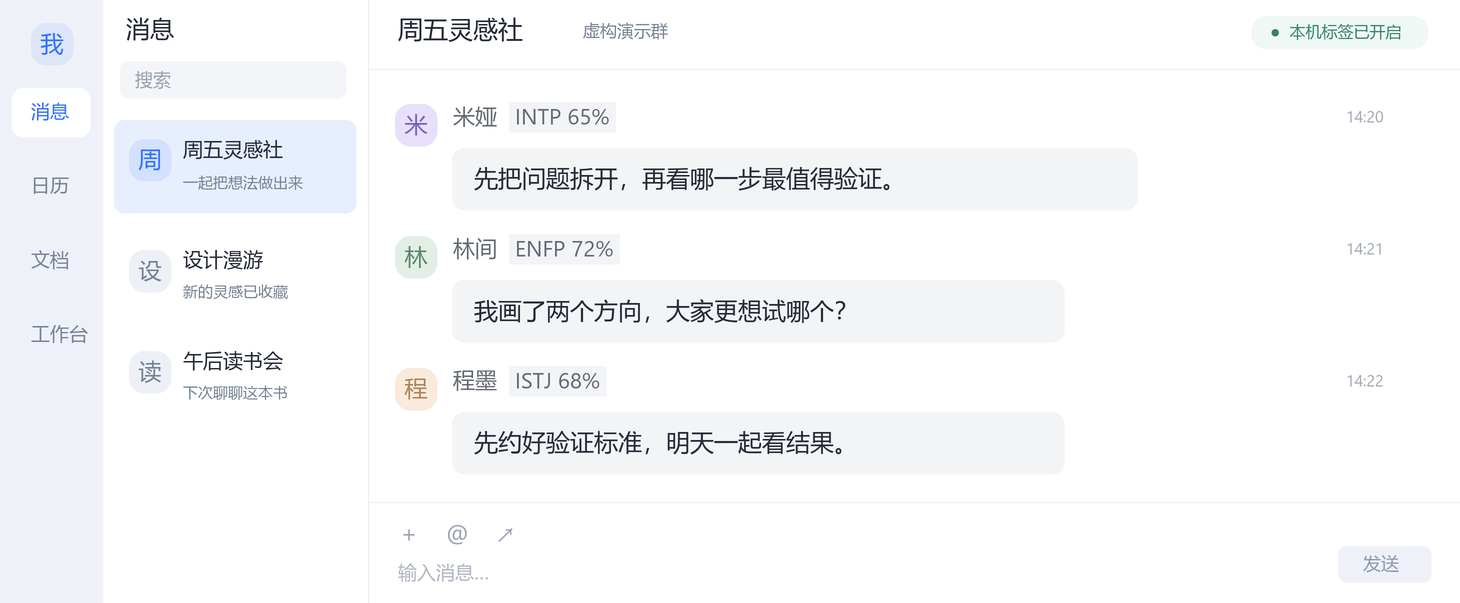
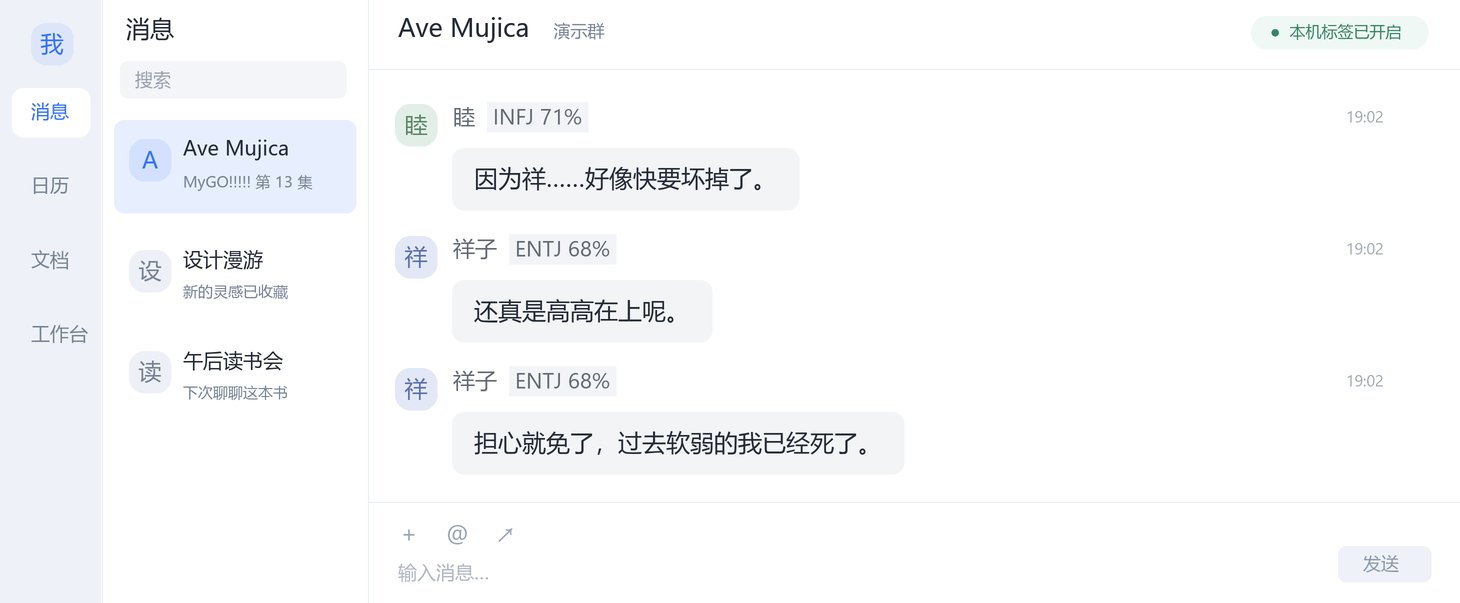
Show MBTI and girl-band demos side by side; trim the README
The demo now replays a MyGO!!!!! episode 13 exchange between Mutsumi and
Sakiko, rendered twice: plain MBTI labels and the built-in girl-band theme,
with the same probabilities. render_demo.py writes both images and draws
character names with the CJK font.

The README drops internals that do not change how the tool is used
(scroll-prediction constants, polling intervals, badge window reuse),
merges repeated notes on keys and .gitignore, and points the clone URL at
iikawa-games.

diff --git a/tools/render_demo.py b/tools/render_demo.py
@@ -1,4 +1,4 @@
-"""Render a shareable UI illustration using fictional data only. No screen capture."""
+"""Render the README illustrations from an anime dialogue: plain MBTI and a character theme. No screen capture."""
 from pathlib import Path
 from functools import lru_cache
 import argparse
@@ -9,14 +9,17 @@ from PIL import Image, ImageDraw, ImageFont
 ROOT = Path(__file__).resolve().parents[1]
 sys.path.insert(0, str(ROOT))
 from feishu_mbti.presentation import format_profile
+from feishu_mbti.themes import load_themes
 
 SCALE = 2
 WIDTH, HEIGHT = 1460, 603
 ORIGIN_X, ORIGIN_Y = 70, 255
 INK, MUTED, BLUE = '#252b37', '#768295', '#3370ff'
+# The same chat twice: plain MBTI, then the built-in 少女乐队 theme.
+VARIANTS = (('demo.png', None, '本机标签已开启'), ('demo-girl-bands.png', 'girl_bands', '少女乐队主题'))
 
 
-def render(output, font_path=None):
+def render(output, font_path=None, theme=None, status='本机标签已开启'):
     candidates = [Path(font_path)] if font_path else [
         Path(os.environ.get('WINDIR', 'C:/Windows')) / 'Fonts/msyh.ttc',
         Path('/usr/share/fonts/opentype/noto/NotoSansCJK-Regular.ttc'),
@@ -68,34 +71,38 @@ def render(output, font_path=None):
     rect((190, 316, 416, 353), '#f3f5f8', 8)
     text(205, 335, '搜索', 18, '#98a1b0')
     rect((184, 375, 426, 468), '#e7efff', 10)
-    avatar(199, 394, '周', '#d3e1ff')
-    text(253, 405, '周五灵感社', 20)
-    text(253, 438, '一起把想法做出来', 15, MUTED)
+    avatar(199, 394, 'A', '#d3e1ff')
+    text(253, 405, 'Ave Mujica', 20)
+    text(253, 438, 'MyGO!!!!! 第 13 集', 15, MUTED)
     for y, initial, title, summary in [(505, '设', '设计漫游', '新的灵感已收藏'), (606, '读', '午后读书会', '下次聊聊这本书')]:
         avatar(199, y, initial, '#edf1f7', MUTED)
         text(253, y+10, title, 20)
         text(253, y+42, summary, 15, MUTED)
     line(438, 255, 438, 858)
-    text(468, 285, '周五灵感社', 25)
-    text(653, 286, '虚构演示群', 17, MUTED)
+    title_width = text(468, 285, 'Ave Mujica', 25)
+    text(468 + title_width + 24, 286, '演示群', 17, MUTED)
     rect((1321, 271, 1498, 304), '#eff8f4', 16)
-    text(1340, 287, '●  本机标签已开启', 16, '#358365')
+    text(1340, 287, f'●  {status}', 16, '#358365')
     line(438, 324, 1530, 324)
 
     samples = [
-        ('米娅', '米', '#e6e0fb', '#7963b2', 'INTP', .65, 367, '先把问题拆开，再看哪一步最值得验证。', 685, '14:20'),
-        ('林间', '林', '#e2efe6', '#5c8569', 'ENFP', .72, 499, '我画了两个方向，大家更想试哪个？', 612, '14:21'),
-        ('程墨', '程', '#f9eadb', '#af8459', 'ISTJ', .68, 631, '先约好验证标准，明天一起看结果。', 612, '14:22'),
+        # BanG Dream! It's MyGO!!!!! episode 13: Mutsumi says why she is joining Ave Mujica.
+        ('睦', '睦', '#e2efe6', '#5c8569', 'INFJ', .71, 367, '因为祥……好像快要坏掉了。', '19:02'),
+        ('祥子', '祥', '#e3e8f7', '#5b6fa8', 'ENTJ', .68, 499, '还真是高高在上呢。', '19:02'),
+        ('祥子', '祥', '#e3e8f7', '#5b6fa8', 'ENTJ', .68, 631, '担心就免了，过去软弱的我已经死了。', '19:02'),
     ]
-    for name, initial, background, foreground, label, probability, y, message, width, timestamp in samples:
+    for name, initial, background, foreground, label, probability, y, message, timestamp in samples:
         avatar(465, y-8, initial, background, foreground)
         name_width = text(523, y+5, name, 22, '#646a73')
-        value = format_profile({'label': label, 'probability': probability, 'status': 'uncertain', 'result_version': 2})
-        badge_width = draw.textlength(value, font=font(22, True)) / SCALE + 12
+        value = format_profile({'label': label, 'probability': probability, 'status': 'uncertain', 'result_version': 2},
+                               theme=theme)
+        latin = value.isascii()  # Segoe UI has no CJK glyphs for character names.
+        badge_width = draw.textlength(value, font=font(22, latin)) / SCALE + 12
         left = 523 + name_width + 12
         rect((left, y-10, left+badge_width, y+20), '#f2f4f7', 0)
-        text(left+6, y+5, value, 22, '#646a73', True)
+        text(left+6, y+5, value, 22, '#646a73', latin)
         text(1416, y+5, timestamp, 16, '#a1a9b5', True)
+        width = draw.textlength(message, font=font(24)) / SCALE + 44
         rect((522, y+36, 522+width, y+98), '#f2f4f6', 12)
         text(544, y+67, message, 24)
     line(438, 757, 1530, 757)
@@ -106,12 +113,14 @@ def render(output, font_path=None):
 
     output.parent.mkdir(parents=True, exist_ok=True)
     image.resize((WIDTH, HEIGHT), Image.Resampling.LANCZOS).save(output)
-    print(f'Rendered {output.name}: {WIDTH} x {HEIGHT}, fictional data only.')
+    print(f'Rendered {output.name}: {WIDTH} x {HEIGHT}, no personal data.')
 
 
 if __name__ == '__main__':
     parser = argparse.ArgumentParser(description=__doc__)
     parser.add_argument('--font', help='Path to a Chinese-capable .ttf or .ttc font')
-    parser.add_argument('--output', type=Path, default=ROOT / 'docs/demo.png')
+    parser.add_argument('--output-dir', type=Path, default=ROOT / 'docs')
     args = parser.parse_args()
-    render(args.output, args.font)
+    themes = load_themes()
+    for filename, theme_id, status in VARIANTS:
+        render(args.output_dir / filename, args.font, themes.get(theme_id), status)

diff --git a/README.md b/README.md
@@ -1,50 +1,49 @@
 # lark-mbti-jev
 
-一个用于 Windows 飞书 / Lark 群聊的小工具。它让 Jev 根据聊天记录推测成员的 MBTI，并在发言者姓名旁显示结果，例如 **INTP 65%**。标签只在你的电脑上显示。
+一个用于 Windows 飞书 / Lark 群聊的小工具。它让 Jev 根据聊天记录推测成员的 MBTI，并在发言者姓名旁显示结果，例如 **ENTJ 68%**，也可以换成动漫角色，例如 **丰川祥子 68%**。标签只在你的电脑上显示。
 
-![姓名旁显示 MBTI 和概率的效果示意](docs/demo.png)
+<table>
+  <tr>
+    <td><img src="docs/demo.png" alt="姓名旁显示 MBTI 和概率"></td>
+    <td><img src="docs/demo-girl-bands.png" alt="姓名旁显示少女乐队角色和概率"></td>
+  </tr>
+  <tr>
+    <td align="center">默认：MBTI 类型</td>
+    <td align="center">少女乐队主题：同一类型对应的角色</td>
+  </tr>
+</table>
 
-> 图中的人物、群名、消息和概率均为虚构。本工具独立于飞书运行，由第三方开发。
+> 图中消息是《BanG Dream! It's MyGO!!!!!》第 13 集睦和祥子的原对话（中文译文），概率为演示数值。本工具由第三方开发，独立于飞书运行。
 
 ## 安装和启动
 
 使用前需要准备：
 
 - Windows 10 / 11 和 Python 3.11+。
-- Windows 中文文字识别（OCR）语言组件，仅截图兼容模式需要。
 - 已配置并登录的 [lark-cli](https://github.com/larksuite/cli)，以及读取所选群聊的权限。
 - 可用的 Jev 服务，或用于直连 [TypeSafe](https://docs.typesafe.ai/) 的 API 密钥。
-
-在 PowerShell 中下载并安装：
+- Windows 中文 OCR 语言组件（仅截图兼容模式需要）。
 
 ```powershell
-git clone https://github.com/iikawa0918/lark-mbti-jev.git
+git clone https://github.com/iikawa-games/lark-mbti-jev.git
 cd lark-mbti-jev
 powershell -NoProfile -ExecutionPolicy Bypass -File .\install.ps1
+lark-cli auth status --json   # 确认 lark-cli 已登录
 ```
 
-检查 lark-cli 的登录状态：
-
-```powershell
-lark-cli auth status --json
-```
+程序在 PATH 和 npm 默认安装目录中查找 lark-cli；装在其他位置时，用 `LARK_CLI_EXE` 指定路径。
 
 ### 配置 Jev
 
-如果电脑上已经配置了 Jev 中转服务，程序会使用 `JEV_BASE_URL`、`JEV_CLIENT_CONFIG` 或 `~/.agents/jev-client.json`。配置文件中的 `base_url` 填服务根地址，例如 `http://127.0.0.1:8766`；API 密钥由中转服务管理。
+- **Jev 中转服务**：程序读取 `JEV_BASE_URL`、`JEV_CLIENT_CONFIG` 或 `~/.agents/jev-client.json`。配置文件中的 `base_url` 填服务根地址，例如 `http://127.0.0.1:8766`；API 密钥由中转服务管理。
+- **直连 TypeSafe**：设置 `TYPESAFE_API_KEY`，或用 `TYPESAFE_KEY_FILE` 指向一个本机文件（一行密钥，或一行 `TYPESAFE_API_KEY=...`）。
 
-如果直接使用 TypeSafe，在当前 PowerShell 窗口设置密钥，再启动程序：
+配置保存在用户环境变量或本机文件中时，双击 `启动飞书MBTI.vbs` 即可。只在当前 PowerShell 窗口设置的变量，需要在同一窗口启动：
 
 ```powershell
 $env:TYPESAFE_API_KEY = "替换为你的 TypeSafe API 密钥"
 .\.venv\Scripts\python.exe -m feishu_mbti.app
 ```
-
-也可以把密钥保存在本机文件中，用 `TYPESAFE_KEY_FILE` 指定路径。文件只需一行密钥，或一行 `TYPESAFE_API_KEY=...`。密钥和个人配置留在本机，勿提交到 Git。
-
-配置已保存到用户环境变量或本机配置文件时，可直接双击 `启动飞书MBTI.vbs`。只在当前 PowerShell 窗口设置的变量，需要从同一个窗口运行上面的 Python 启动命令。
-
-程序会在 PATH 和 npm 默认安装目录中查找 lark-cli。安装在其他位置时，用 `LARK_CLI_EXE` 指定可执行文件路径。
 
 ### 选择群聊
 
@@ -52,25 +51,27 @@ $env:TYPESAFE_API_KEY = "替换为你的 TypeSafe API 密钥"
 2. 从搜索结果中选中目标群，点击“使用此群”。
 3. 点击“开启标签”，再点击“在飞书打开”。
 
-第一次使用时需要自己选群。之后双击 `启动飞书MBTI.vbs` 只在系统托盘显示图标，不弹出窗口。单击托盘图标打开控制窗口；关闭窗口后程序继续在托盘运行。右键菜单可以暂停或开启标签、刷新聊天；选“退出”才会停止消息读取、姓名识别和鼠标监听。程序需要手动启动。
+选过群之后，双击 `启动飞书MBTI.vbs` 只在系统托盘显示图标并直接开启标签。单击图标打开控制窗口，关闭窗口后程序继续在托盘运行；右键菜单可以暂停或开启标签、刷新聊天、切换标签显示，选“退出”才会停止。程序不会开机自启。
 
 ## 标签怎么显示
 
-程序优先通过 Windows 无障碍接口直接读取飞书桌面端的姓名和位置，无需截图。控制窗口会显示当前定位方式；客户端未提供可用接口时，自动使用截图识别兼容模式。
+程序优先通过 Windows 无障碍接口读取飞书桌面端的姓名和位置，不截图；客户端没有提供可用接口时，自动改用截图识别。控制窗口会显示当前方式。
 
-- **还没有分析结果的成员**：先显示“分析中”。本机已缓存此人的群聊文字时，先用这些文字分析，约 1 秒出结果；随后补读此人更多历史，多出 10 条以上再更新一次。最多 4 人同时分析，屏幕上的成员优先。开启标签后还会预先分析最近发言的 30 人。有文本但信息较少时，仍显示最可能的类型和概率；没有可用文本时显示“暂无文本”。分析失败时显示“分析失败”，约 1 分钟后再次看到此人时自动重试。
-- **字号和位置**：标签紧贴在姓名后面，与姓名垂直居中，字号略小于姓名。姓名后有签名、状态或链接时，标签盖住签名开头，签名再长也照常显示。
-- **滚动消息**：滚动或拖动滚动条时，标签跟着姓名一起移动。飞书的无障碍接口要等滚动动画结束（约 0.15～0.3 秒）才报告新位置，所以滚轮滚动时程序按滚轮格数和实测的飞书滚动曲线预测位移（每格约 100 DIP、约 0.16 秒滚完，连续滚动时沿用当前速度，在列表顶端和底端停住），再用飞书报告的最终位置校正并自动调整每格距离。视野上下各半屏内的姓名也会提前识别，滚进来时标签随之出现；拖动滚动条时直接跟随飞书报告的位置；移出消息区（标题栏下方、输入框上方以外）时隐藏，滚回来时重新出现。停稳约 0.25 秒后完整重读一次，补上新滚进来的姓名。截图兼容模式无法跟随，滚动时仍会暂时隐藏。
-- **截图**：标签会出现在截图里（包括屏幕共享）。使用飞书、系统或 Snipaste 等工具截图时，标签保持显示。
-- **切换窗口**：只有选定群聊处于前台时才显示标签。
+- **状态**：还没有结果时显示“分析中”。已缓存此人文字时约 1 秒出结果，之后补读更多历史再更新一次；屏幕上的成员优先。信息较少时仍显示最可能的类型；没有可用文本显示“暂无文本”；分析失败显示“分析失败”，约 1 分钟后再看到此人时自动重试。
+- **位置**：标签紧贴姓名，字号略小于姓名；姓名后有签名或状态时，标签盖住签名开头。
+- **滚动**：标签跟着姓名一起移动，滚进视野的姓名随之出现标签，移出消息区时隐藏。截图兼容模式无法跟随，滚动时暂时隐藏。
+- **截图和共享**：标签会出现在截图和屏幕共享里。
+- **切换窗口**：只有选定群聊处于前台时才显示。
 
-在控制窗口中双击成员，可以查看四个维度的概率、分析参考了多少条消息，以及上次分析后新增了多少条消息。姓名显示为群昵称，或群里有同名成员时，程序用名字下方的消息文字（包括图片配的说明文字、带 @ 的整行文字）确认是谁，确认后记住这个昵称，以后此人只发图片也能显示。仍识别不准时，选中对应成员，点击“补充群昵称”，填入此人在该群的完整昵称。
+在控制窗口中双击成员，可以查看四个维度的概率、参考的消息数，以及上次分析后新增的消息数。
+
+姓名显示为群昵称，或群里有同名成员时，程序用名字下方的消息文字确认是谁，并记住这个昵称。仍识别不准时，选中该成员，点击“补充群昵称”，填入此人在该群的完整昵称。
 
 ## 动漫角色主题
 
-在控制窗口的“标签显示”或托盘右键菜单的“标签显示”中，可以把 MBTI 换成动漫角色，例如 **鹿目圆 65%**。百分比不变，仍是模型对该 MBTI 类型给出的概率。双击成员可以看到对应的角色、作品和 MBTI 类型。
+在控制窗口或托盘菜单的“标签显示”中，可以把 MBTI 换成动漫角色。百分比不变，仍是模型对该 MBTI 类型给出的概率；双击成员可以看到对应的角色、作品和类型。
 
-内置主题都综合了多部作品：
+内置主题：
 
 - **魔法少女**：美少女战士、魔卡少女樱、魔法少女小圆、魔法少女奈叶、魔法少女伊莉雅、魔法纪录
 - **少女乐队**：孤独摇滚！、轻音少女、BanG Dream!、MyGO!!!!!、Ave Mujica、Girls Band Cry
@@ -78,7 +79,7 @@ $env:TYPESAFE_API_KEY = "替换为你的 TypeSafe API 密钥"
 
 类型与角色的对应是粉丝向的娱乐归类，不代表作品的官方设定。
 
-**为某部动漫自定义主题**：点击“自定义主题…”，程序会打开本机的 `.data/themes` 文件夹，里面有一个示例文件。复制这个文件并改名（文件名不要以 `_` 开头），为 16 种类型填写角色，保存后即可在“标签显示”中选择。没有填写的类型继续显示 MBTI。文件格式如下：
+**自定义主题**：点击“自定义主题…”，程序打开本机 `.data/themes` 文件夹，里面有一个示例文件。复制并改名（文件名不要以 `_` 开头），为 16 种类型填写角色，保存后即可在“标签显示”中选择。没填的类型继续显示 MBTI。
 
 ```json
 {
@@ -91,9 +92,7 @@ $env:TYPESAFE_API_KEY = "替换为你的 TypeSafe API 密钥"
 
 ## 结果何时更新
 
-同一个成员再次出现时，直接显示上次结果。该成员在同一个群中累计新增 **11 条文本消息**后，下次显示时重新分析；分析期间继续显示旧结果。
-
-消息和结果都保存在本机，重启后继续使用。每条消息按 ID 识别，重复读取或补充更早的聊天记录时，新增计数保持不变。
+同一成员再次出现时直接显示上次结果。该成员在同一群中累计新增 **11 条文本消息**后，下次显示时重新分析，期间继续显示旧结果。
 
 开启标签后约每分钟检查一次新消息，也可以点击“刷新聊天”。点击“清除缓存”会删除当前群保存的消息和结果，并暂停标签。
 
@@ -101,25 +100,19 @@ $env:TYPESAFE_API_KEY = "替换为你的 TypeSafe API 密钥"
 
 | 数据 | 处理方式 |
 | --- | --- |
-| 群聊消息 | 通过 lark-cli 读取所选群，保存到本机 `.data/messages.sqlite3`。每人最多保留 1,000 条，每群最多保留 20,000 条，单条最多保留 8,000 字符 |
-| 发给 Jev 的文本 | 取对应成员最近最多 200 条、40,000 字符，连同消息时间发送到你配置的服务。程序不会另外附上成员姓名和账号 ID；正文中出现的这些信息会随文本发送 |
+| 群聊消息 | 通过 lark-cli 读取所选群，保存到本机 `.data/messages.sqlite3`。首次读取近 90 天最多 1,000 条；首次分析某成员时再查此人近 90 天最多 500 条。每人最多保留 1,000 条、每群 20,000 条、单条 8,000 字符，超出时保留较新的 |
+| 发给 Jev 的文本 | 对应成员最近最多 200 条、40,000 字符，连同消息时间发送到你配置的服务。程序不另外附上成员姓名和账号 ID；正文中出现的这些信息会随文本发送 |
 | 分析结果和设置 | 保存到本机 `.data/profiles.json`、`.data/settings.json`，包括成员姓名、账号 ID、所选群和手动填写的昵称 |
-| 屏幕图像 | 无障碍模式不截图；兼容模式在本机内存中识别，不保存或上传截图 |
-| 鼠标操作 | 只检测当前聊天区域的滚动和拖动，以便隐藏、恢复标签；操作照常传给原窗口，不保存操作记录 |
+| 屏幕图像 | 无障碍模式不截图；兼容模式只在内存中识别，不保存或上传 |
+| 鼠标操作 | 只检测当前聊天区域的滚动和拖动，用于移动或隐藏标签；操作照常传给原窗口，不保存记录 |
 
-首次读取选定群近 90 天的消息，最多 1,000 条；首次分析某成员时，再查询此人在同一群近 90 天最多 500 条消息。之后继续积累新消息，达到上限时保留较新的文本。
-
-仓库只包含程序、测试和虚构的演示数据。缓存、密钥、环境文件和本机调试目录均已加入 `.gitignore`。
+缓存、密钥和本机调试目录均已加入 `.gitignore`，仓库只包含程序、测试和演示数据。
 
 ## 如何理解结果
 
-Jev 同时判断四个 MBTI 维度，并比较 16 种类型。标签中的百分比取自模型对该类型给出的概率。例如 `INTP 65%` 表示模型在本次分析中给 INTP 的概率为 65%；这个数值会随聊天内容变化。
+Jev 同时判断四个 MBTI 维度，并比较 16 种类型。`INTP 65%` 表示模型在本次分析中给 INTP 的概率为 65%，会随聊天内容变化。结果只反映一个人在群聊中的表达风格，**本工具没有经过人格测量准确率验证。**
 
-结果用于参考一个人在群聊中的表达风格。**本工具没有经过人格测量准确率验证。**
-
-目前适配 Windows 飞书的普通群聊。话题视图、复杂昵称或不同客户端布局可能影响识别；无法确定成员身份时，标签保持隐藏。画面静止时，无障碍模式约每 0.4 秒检查一次姓名位置，截图兼容模式约每 1.2 秒一次。
-
-无障碍模式会复用已读取的文字和位置，约每 5 秒重新检查可见消息结构；滚动、文字或位置变化时提前更新。标签窗口重复使用，内容更新时直接修改原标签，避免整批销毁重建。实际占用仍取决于客户端版本和可见消息数量。
+目前适配 Windows 飞书的普通群聊。话题视图、复杂昵称或不同客户端布局可能影响识别；无法确定成员身份时，标签保持隐藏。
 
 ## 开发
 
@@ -129,6 +122,6 @@ Jev 同时判断四个 MBTI 维度，并比较 16 种类型。标签中的百分
 .\.venv\Scripts\python.exe tools/render_demo.py
 ```
 
-`tools/render_demo.py` 用程序内的虚构数据生成 `docs/demo.png`，不读取个人聊天或调用 Jev。默认使用系统中文字体；可以用 `--font` 指定中文字体文件。
+`tools/render_demo.py` 用上面的动画对话生成 `docs/demo.png`（MBTI）和 `docs/demo-girl-bands.png`（少女乐队主题），不读取个人聊天，也不调用 Jev。默认使用系统中文字体，可用 `--font` 指定。
 
 接口参考：[TypeSafe API](https://docs.typesafe.ai/api)、[Choice](https://docs.typesafe.ai/primitives/choice)、[Windows OCR](https://github.com/microsoft/Windows-universal-samples/tree/main/Samples/OCR)、[鼠标监听](https://learn.microsoft.com/en-us/windows/win32/winmsg/lowlevelmouseproc)。
